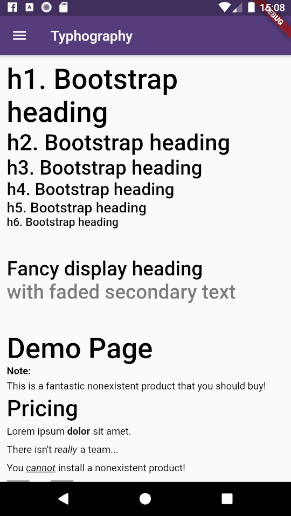
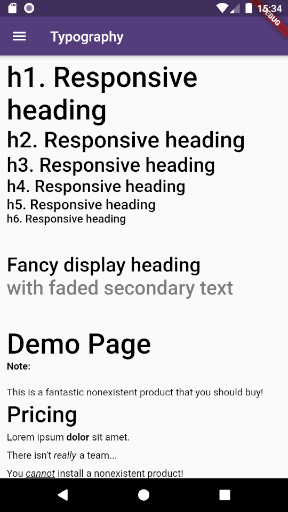
Fixing english erros

diff --git a/lib/src/typography/responsive_text.dart b/lib/src/typography/responsive_text.dart
@@ -43,9 +43,9 @@ class ResponsiveText extends StatelessWidget {
       this.boxDecoration,
       this.defaultTextStyle,
       this.defaultLinkStyle,
-      this.shrinkToFit,
+      this.shrinkToFit = false,
       this.renderNewLines = true,
-      this.showImages,
+      this.showImages = false,
       this.onImageError,
       this.onLinkTap
   }){

diff --git a/example/lib/pages/typography_page.dart b/example/lib/pages/typography_page.dart
@@ -58,7 +58,7 @@ class _TypographyPage extends State<TypographyPage> {
     return Scaffold(
         appBar: AppBar(
           title: const Text(
-              'Typhography', overflow: TextOverflow.ellipsis),
+              'Typography', overflow: TextOverflow.ellipsis),
         ),
         drawer: Sidebar(),
         body: DefaultTextStyle(

diff --git a/example/lib/layouts/sidebar.dart b/example/lib/layouts/sidebar.dart
@@ -97,7 +97,7 @@ class Sidebar extends StatelessWidget {
             title: Row(
               mainAxisAlignment: MainAxisAlignment.spaceBetween,
               children: <Widget>[
-                Text("Tipography"),
+                Text("Typography"),
                 Icon(FontAwesomeIcons.font)
               ],
             ),
